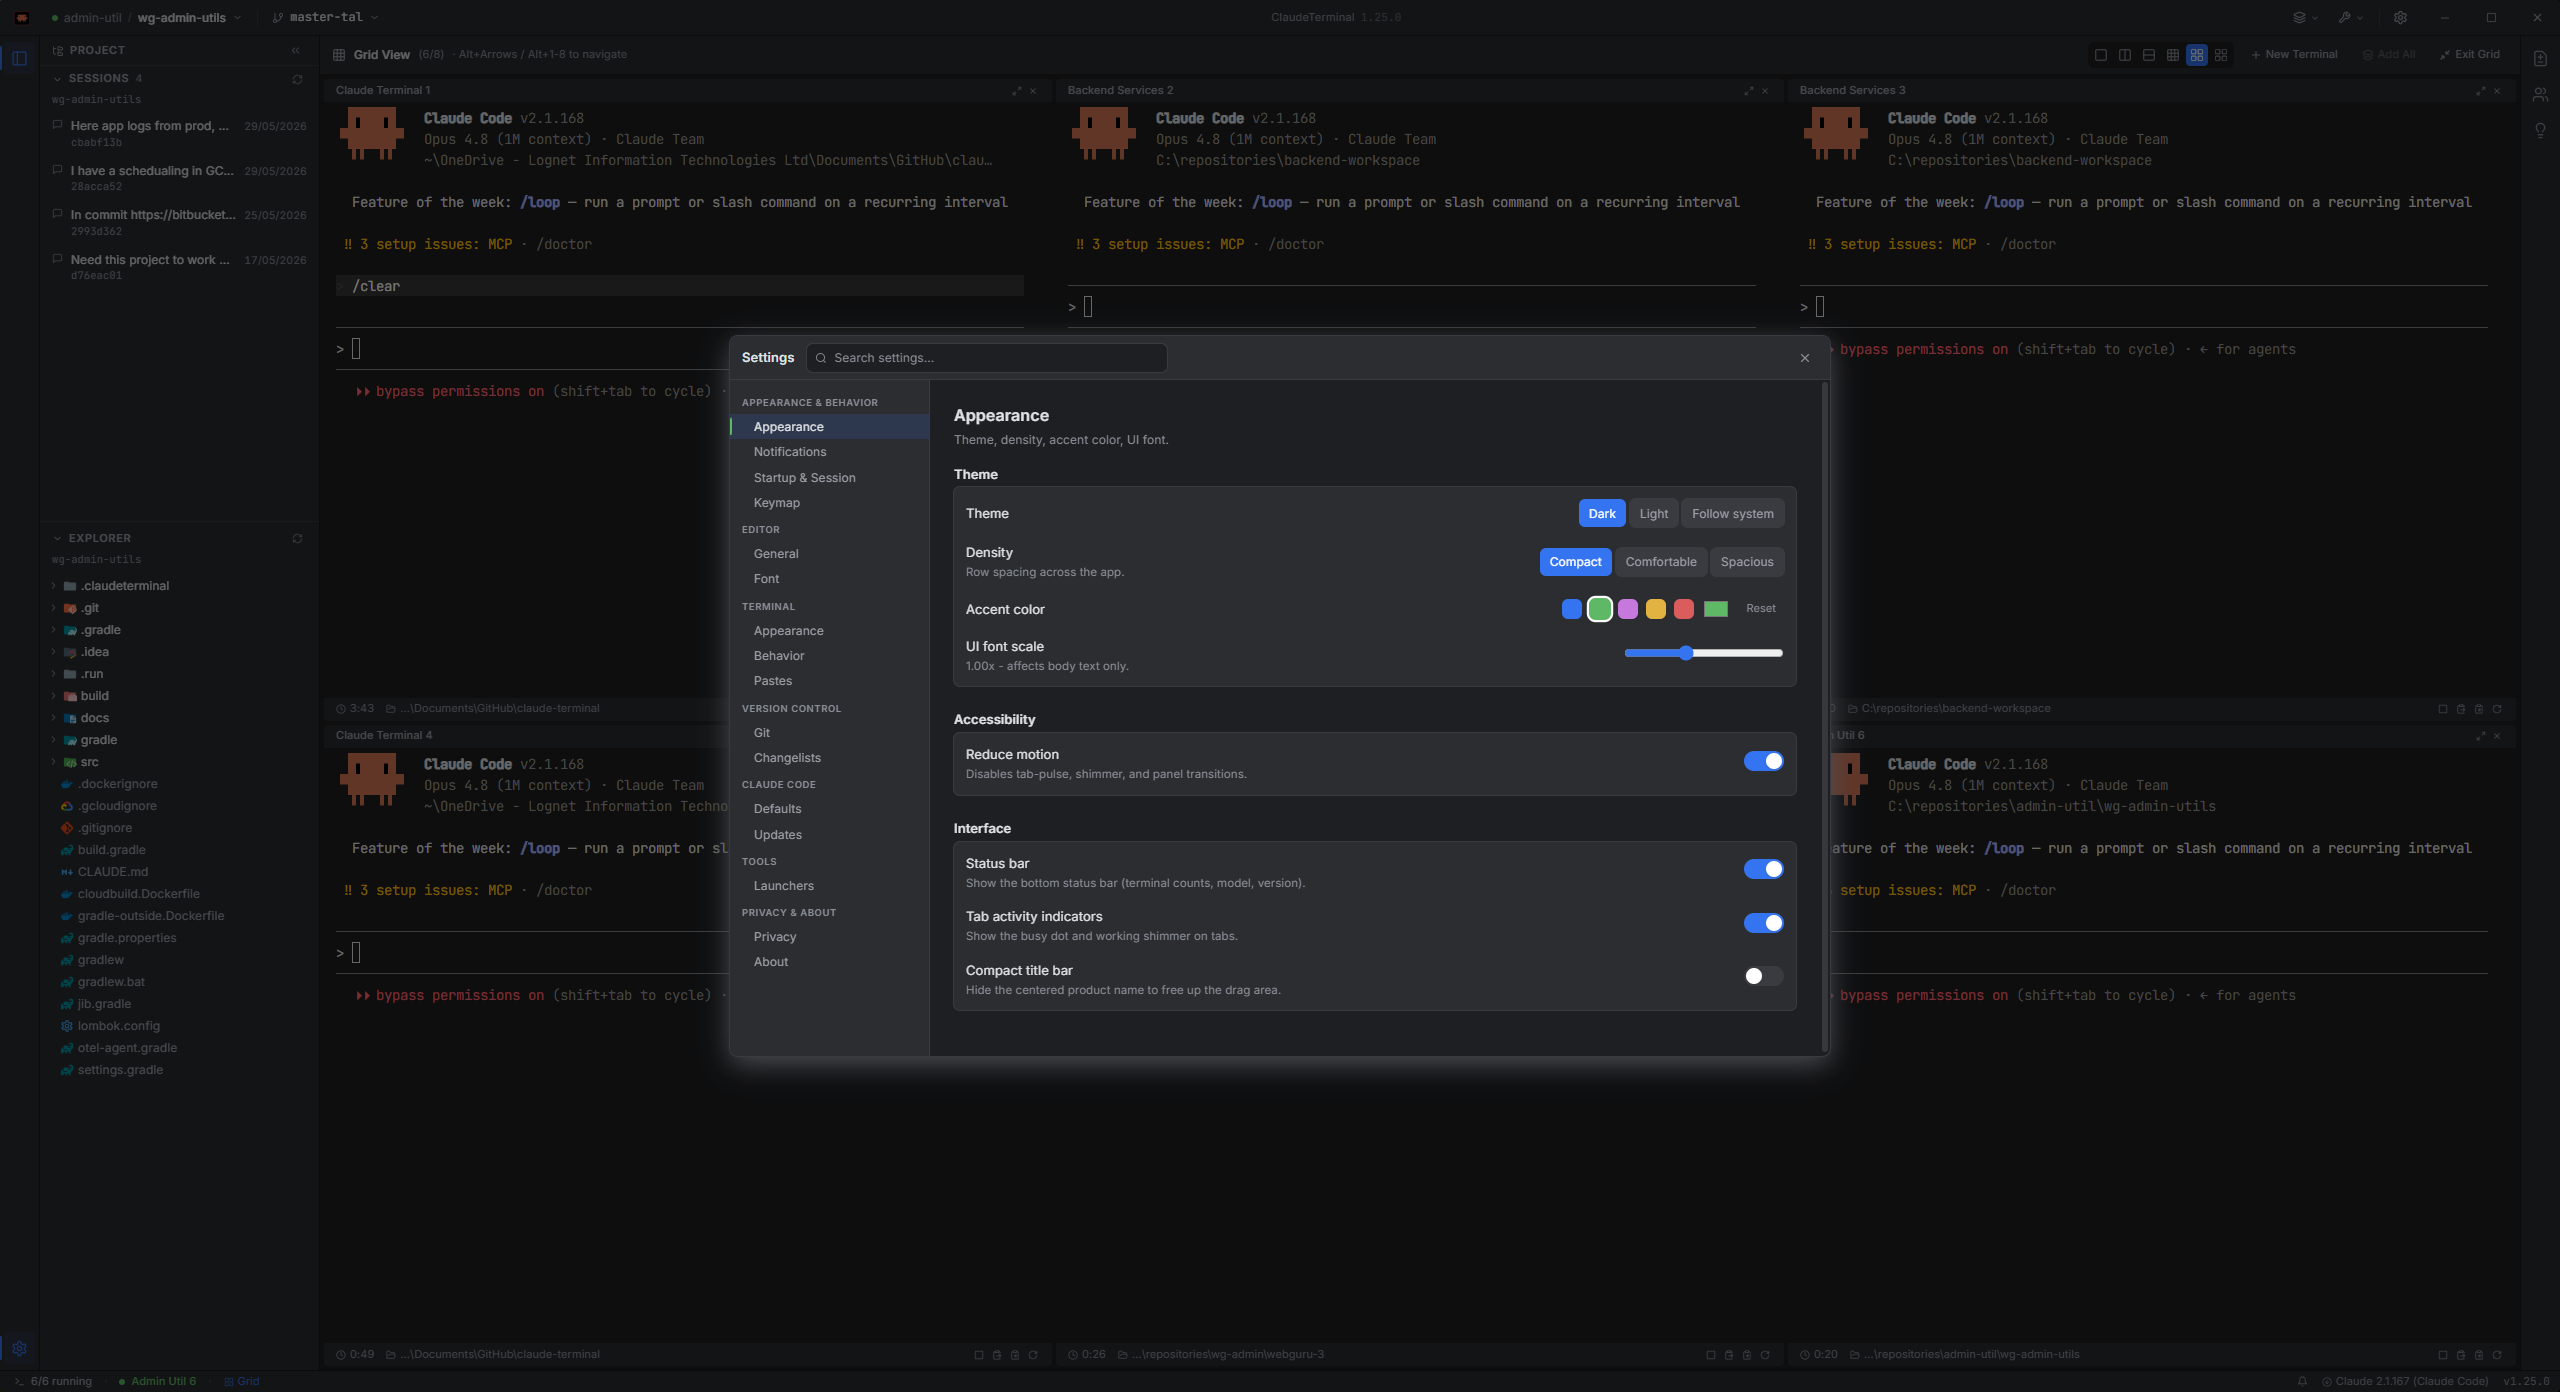
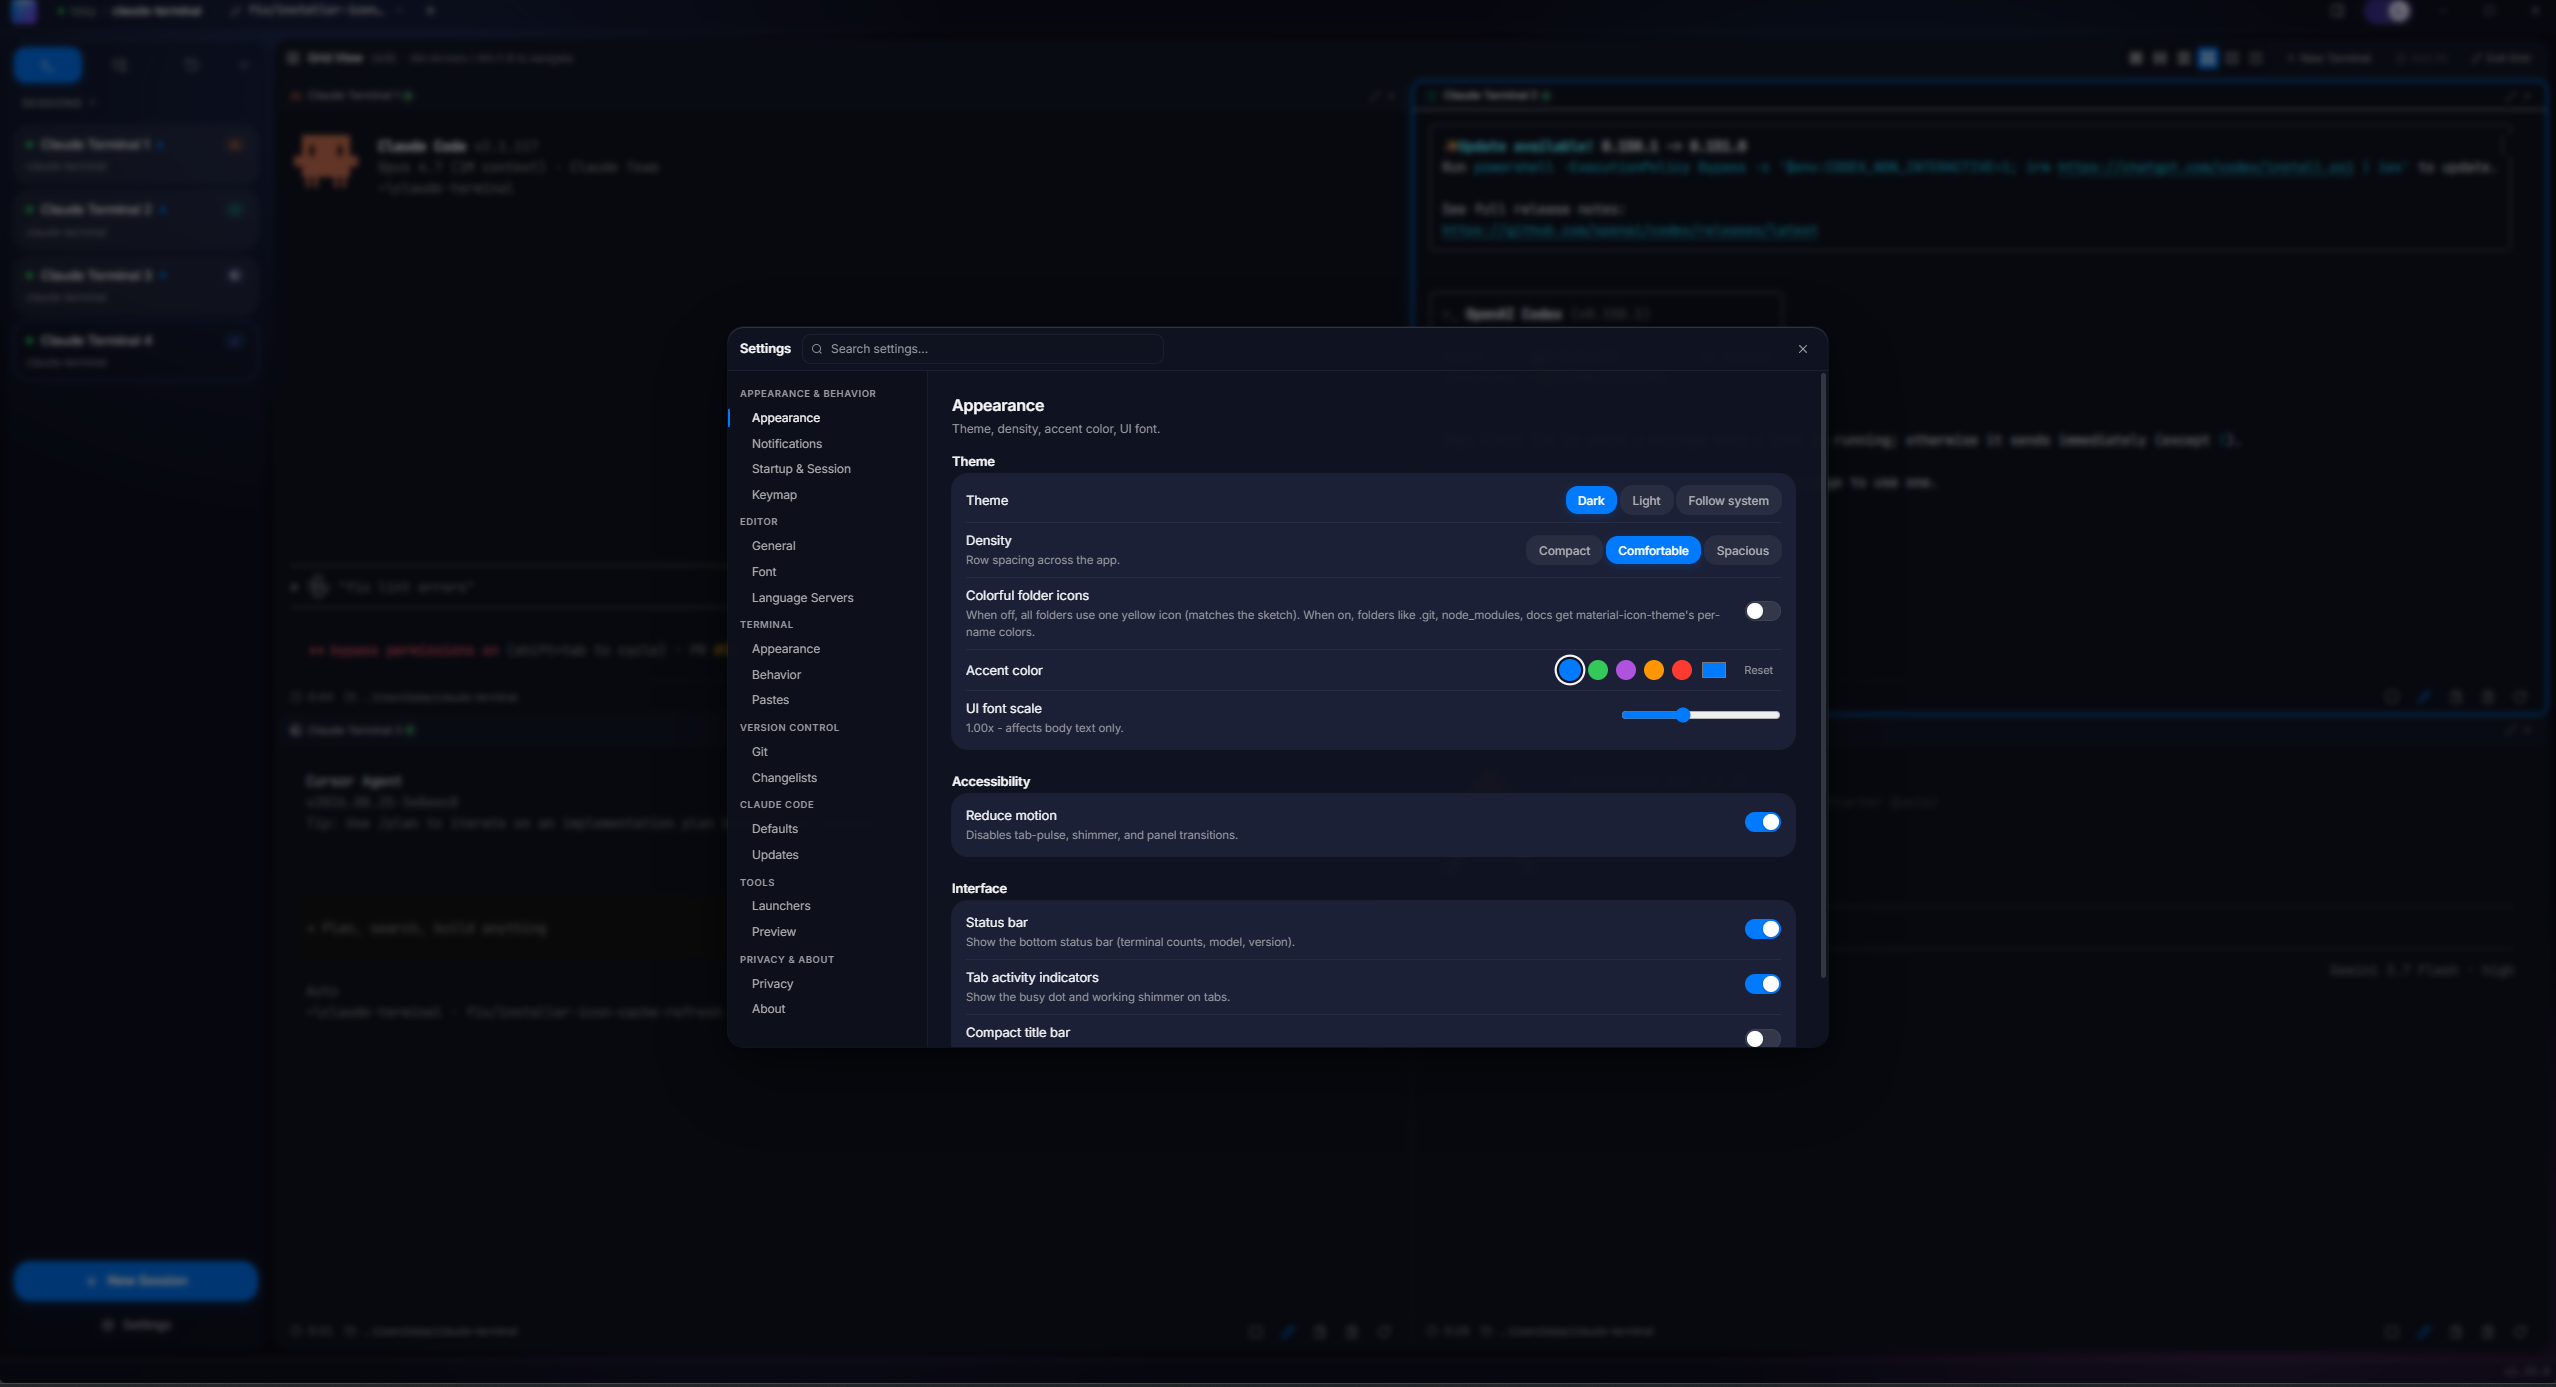
docs(readme): refresh screenshots for current UI
Replace all 5 screenshots (main view, new session, grid, settings,
profiles) with fresh captures matching the current design, and add
the profiles dialog to the Screenshots section.

diff --git a/README.md b/README.md
@@ -50,23 +50,28 @@ Only Claude Code is required to get started. The other three are opt-in and auto
 ## Screenshots
 
 <p align="center">
-  <img src="docs/main-view.png" alt="Main view with an active agent session" width="800">
-  <br><em>Main view - an active agent session with branch indicator, brand icon on the tab, and status bar</em>
+  <img src="docs/main-view.png" alt="Welcome screen with the four agent picker buttons" width="800">
+  <br><em>Welcome screen - pick Claude Code, Codex, Cursor, or Antigravity to start your first session</em>
 </p>
 
 <p align="center">
-  <img src="docs/new-terminal.png" alt="New Terminal dialog" width="800">
-  <br><em>New Terminal dialog - pick the agent, then optionally a profile, working directory, and per-agent arguments</em>
+  <img src="docs/new-terminal.png" alt="New Session dialog" width="800">
+  <br><em>New Session dialog - pick the agent, choose a profile, set working directory, model, and nickname</em>
 </p>
 
 <p align="center">
-  <img src="docs/grid-view.png" alt="Grid view with mixed agents" width="800">
-  <br><em>Grid view - up to 8 sessions at once with selectable layouts; the header icon on each cell shows which agent is running</em>
+  <img src="docs/grid-view.png" alt="Grid view running four agents in parallel" width="800">
+  <br><em>Grid view - Claude Code, Codex, Cursor, and Antigravity running side by side; brand icon on each cell shows which agent is active</em>
 </p>
 
 <p align="center">
-  <img src="docs/settings.png" alt="Settings > Updates" width="800">
-  <br><em>Settings - app version, per-agent CLI detection with docs links, and Claude Code auto-update</em>
+  <img src="docs/profiles.png" alt="New Profile dialog" width="800">
+  <br><em>New Profile dialog - name, working directory, and per-agent CLI arguments; profiles work across all four agents</em>
+</p>
+
+<p align="center">
+  <img src="docs/settings.png" alt="Settings > Appearance" width="800">
+  <br><em>Settings - theme, density, accent color, UI font scale, reduce-motion, and tab-bar behavior</em>
 </p>
 
 ## Features
